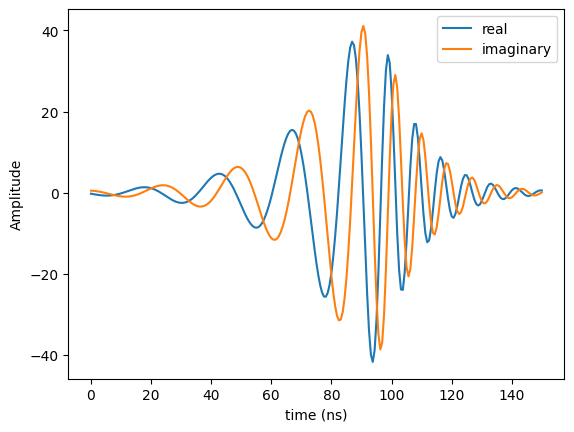
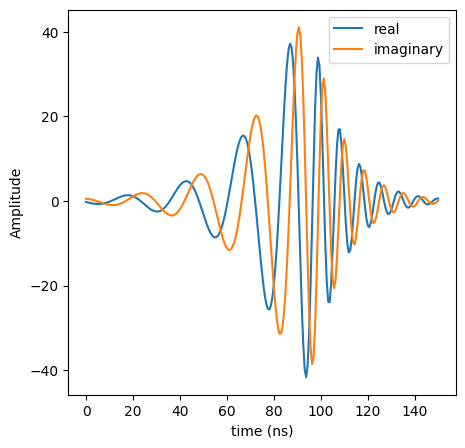
Improved figures for README.md

diff --git a/README.md b/README.md
@@ -30,6 +30,7 @@ pulse = Pulse(pulse_time=0.150,
               beta=10, 
               profile=profile)
 
+plt.figure(figsize=(5, 5))
 plt.plot(pulse.time * 1000, pulse.IQ.real, label='real')
 plt.plot(pulse.time * 1000, pulse.IQ.imag, label='imaginary')
 plt.xlabel('time (ns)')
@@ -70,8 +71,16 @@ Par.FrequencyResponse = [xresponse,yresponse];
 
 figure(1)
 hold on
-plot(t, real(IQ)
-plot(t, imag(IQ)
+plot(t, real(IQ))
+plot(t, imag(IQ))
+xlabel('time ns')
+ylabel('Amplitude')
+x0=10;
+y0=10;
+width=465;
+height=448;
+set(gcf,'position',[x0,y0,width,height])
+
 ```
 ![](img/sechtanhes.png)
 </td>
